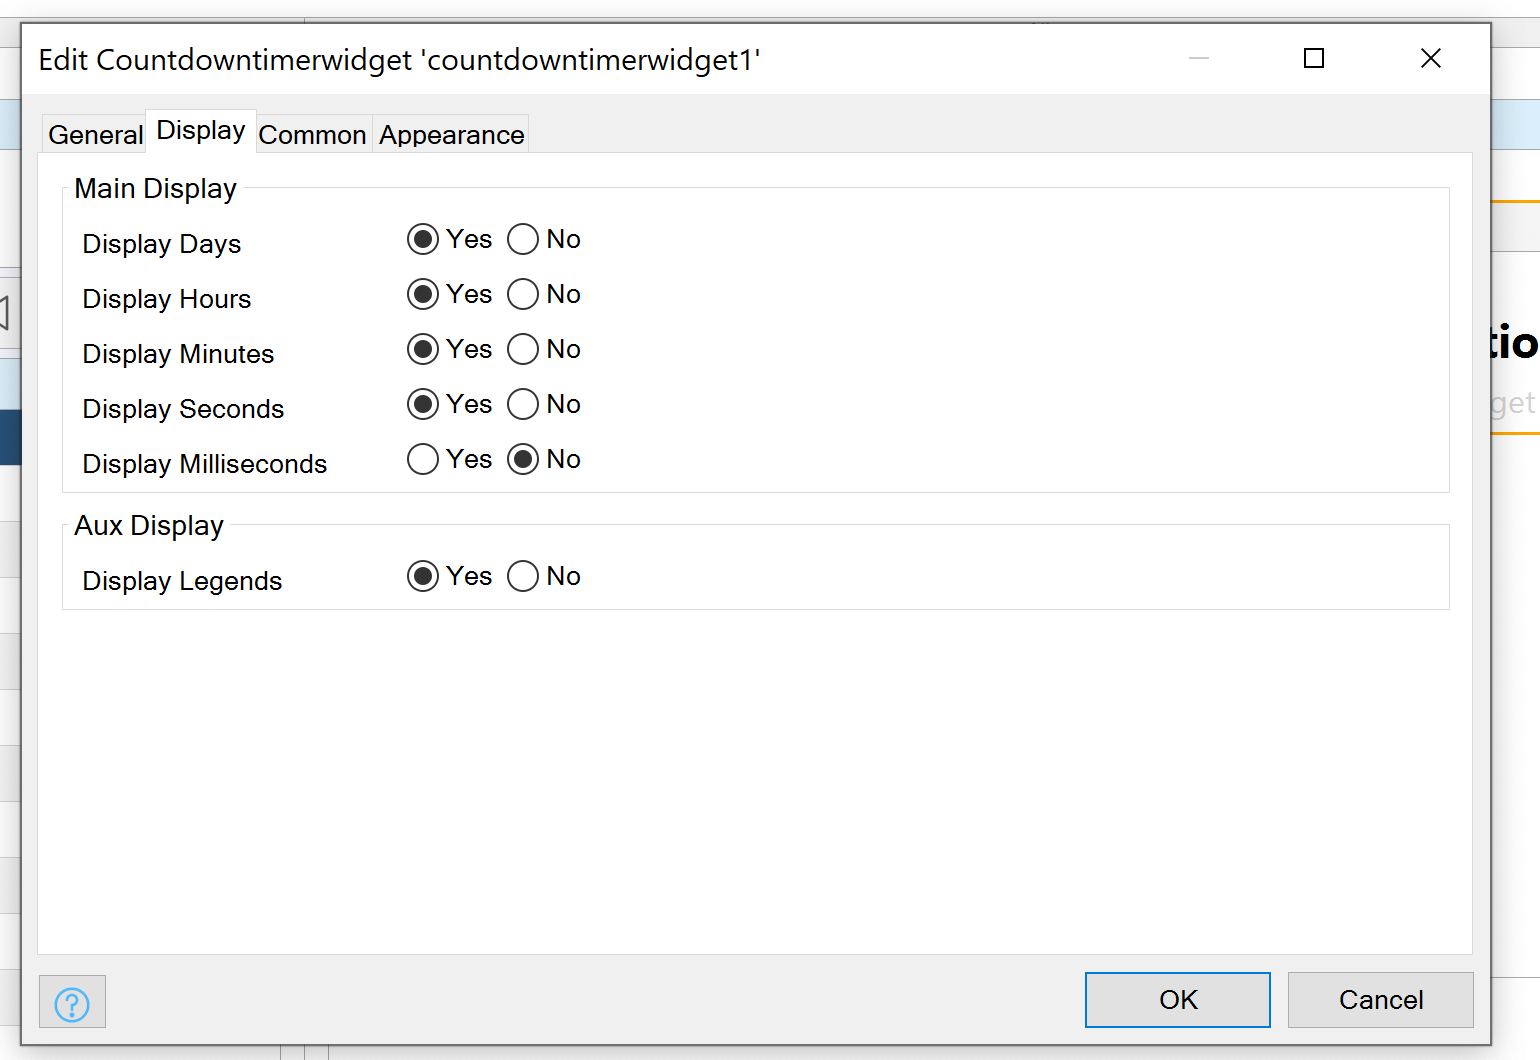
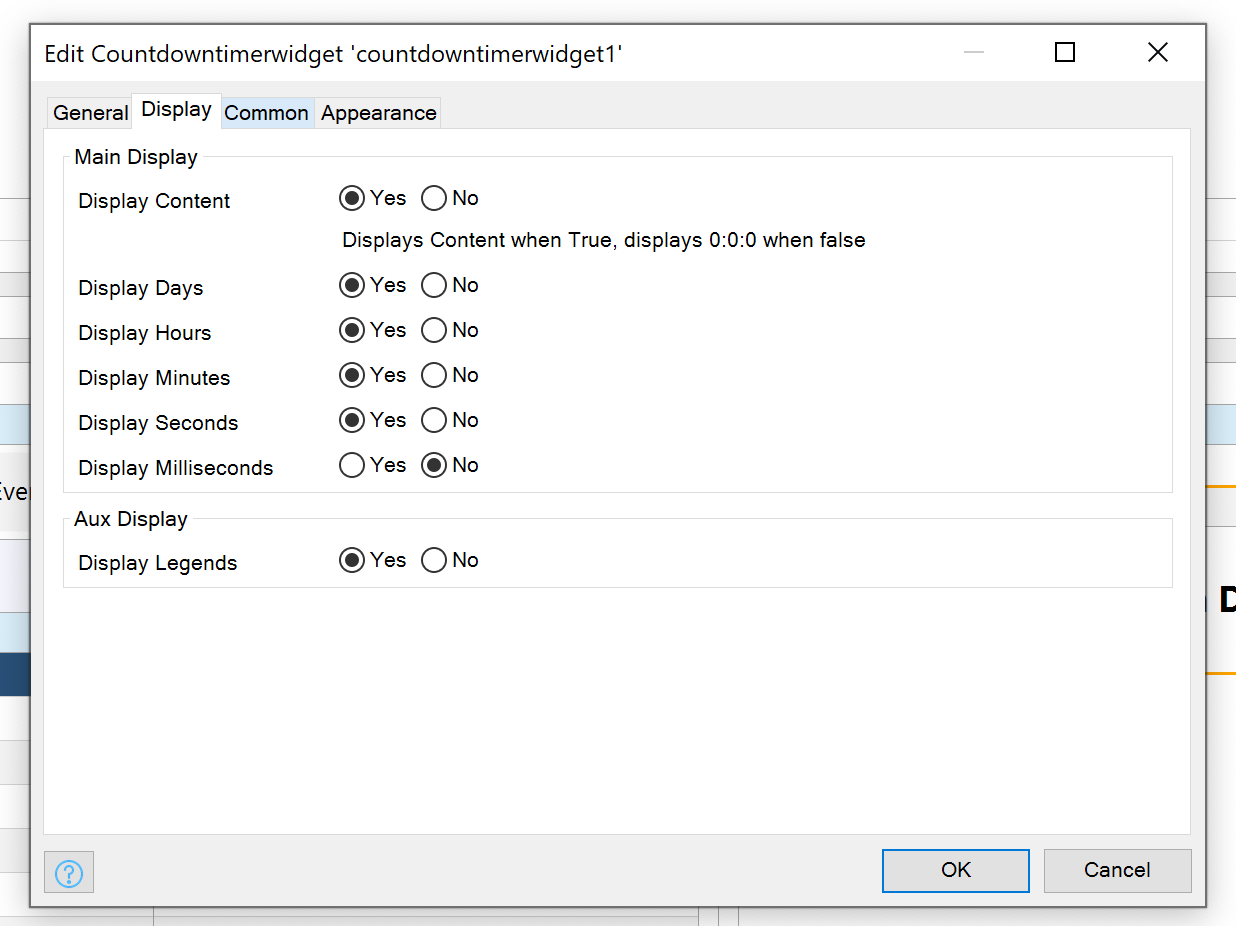
feat: :tada: added displayDoneContent to count down widget

Changed region(s): [[0.0, 0.0, 1.0, 0.9978], [0.246, 0.1814, 0.7071, 0.635], [0.0615, 0.6048, 0.1845, 0.635]]

diff --git a/packages/web-widgets/countdown-timer-widget/src/components/TimerDisplay.tsx b/packages/web-widgets/countdown-timer-widget/src/components/TimerDisplay.tsx
@@ -6,14 +6,15 @@ import Countdown from "react-countdown";
 import { TimerDisplayInterface } from "../types";
 
 const TimerDisplay = ({
-    incomingTime,
+    content,
     whenDone,
     showDays,
-    content,
     showHours,
     showSeconds,
     showLegends,
-    showMinutes
+    showMinutes,
+    incomingTime,
+    displayDoneContent
 }: TimerDisplayInterface) => {
     const formatValues = (value: number, name: string): ReactNode => {
         const digits = ("" + value).split("");
@@ -40,7 +41,7 @@ const TimerDisplay = ({
         }
     };
     const renderer = ({ days, hours, minutes, seconds, completed }: any) => {
-        if (completed) {
+        if (completed && displayDoneContent) {
             return content;
         } else {
             return (

diff --git a/packages/web-widgets/countdown-timer-widget/src/Countdowntimerwidget.tsx b/packages/web-widgets/countdown-timer-widget/src/Countdowntimerwidget.tsx
@@ -12,6 +12,7 @@ const Countdowntimerwidget = ({
     showLegends,
     showMinutes,
     incomingDate,
+    displayDoneContent,
     showMilliseconds
 }: CountdowntimerwidgetContainerProps): ReactNode => {
     const [incomingTime, setIncomingTime] = useState<Date | null>(null);
@@ -42,6 +43,7 @@ const Countdowntimerwidget = ({
                     showLegends={showLegends}
                     incomingTime={incomingTime}
                     showMilliseconds={showMilliseconds}
+                    displayDoneContent={displayDoneContent}
                 />
             </Fragment>
         );

diff --git a/packages/web-widgets/countdown-timer-widget/typings/CountdowntimerwidgetProps.d.ts b/packages/web-widgets/countdown-timer-widget/typings/CountdowntimerwidgetProps.d.ts
@@ -14,6 +14,7 @@ export interface CountdowntimerwidgetContainerProps {
     incomingDate: EditableValue<Date>;
     whenDone?: ActionValue;
     content?: ReactNode;
+    displayDoneContent: boolean;
     showDays: boolean;
     showHours: boolean;
     showMinutes: boolean;
@@ -28,6 +29,7 @@ export interface CountdowntimerwidgetPreviewProps {
     incomingDate: string;
     whenDone: {} | null;
     content: { widgetCount: number; renderer: ComponentType };
+    displayDoneContent: boolean;
     showDays: boolean;
     showHours: boolean;
     showMinutes: boolean;

diff --git a/packages/web-widgets/countdown-timer-widget/src/types/index.ts b/packages/web-widgets/countdown-timer-widget/src/types/index.ts
@@ -12,6 +12,7 @@ export interface TimerDisplayInterface {
     incomingTime: Date | null;
     showHours: boolean;
     showSeconds: boolean;
+    displayDoneContent: boolean;
     showLegends: boolean;
     showMinutes: boolean;
     showMilliseconds: boolean;
